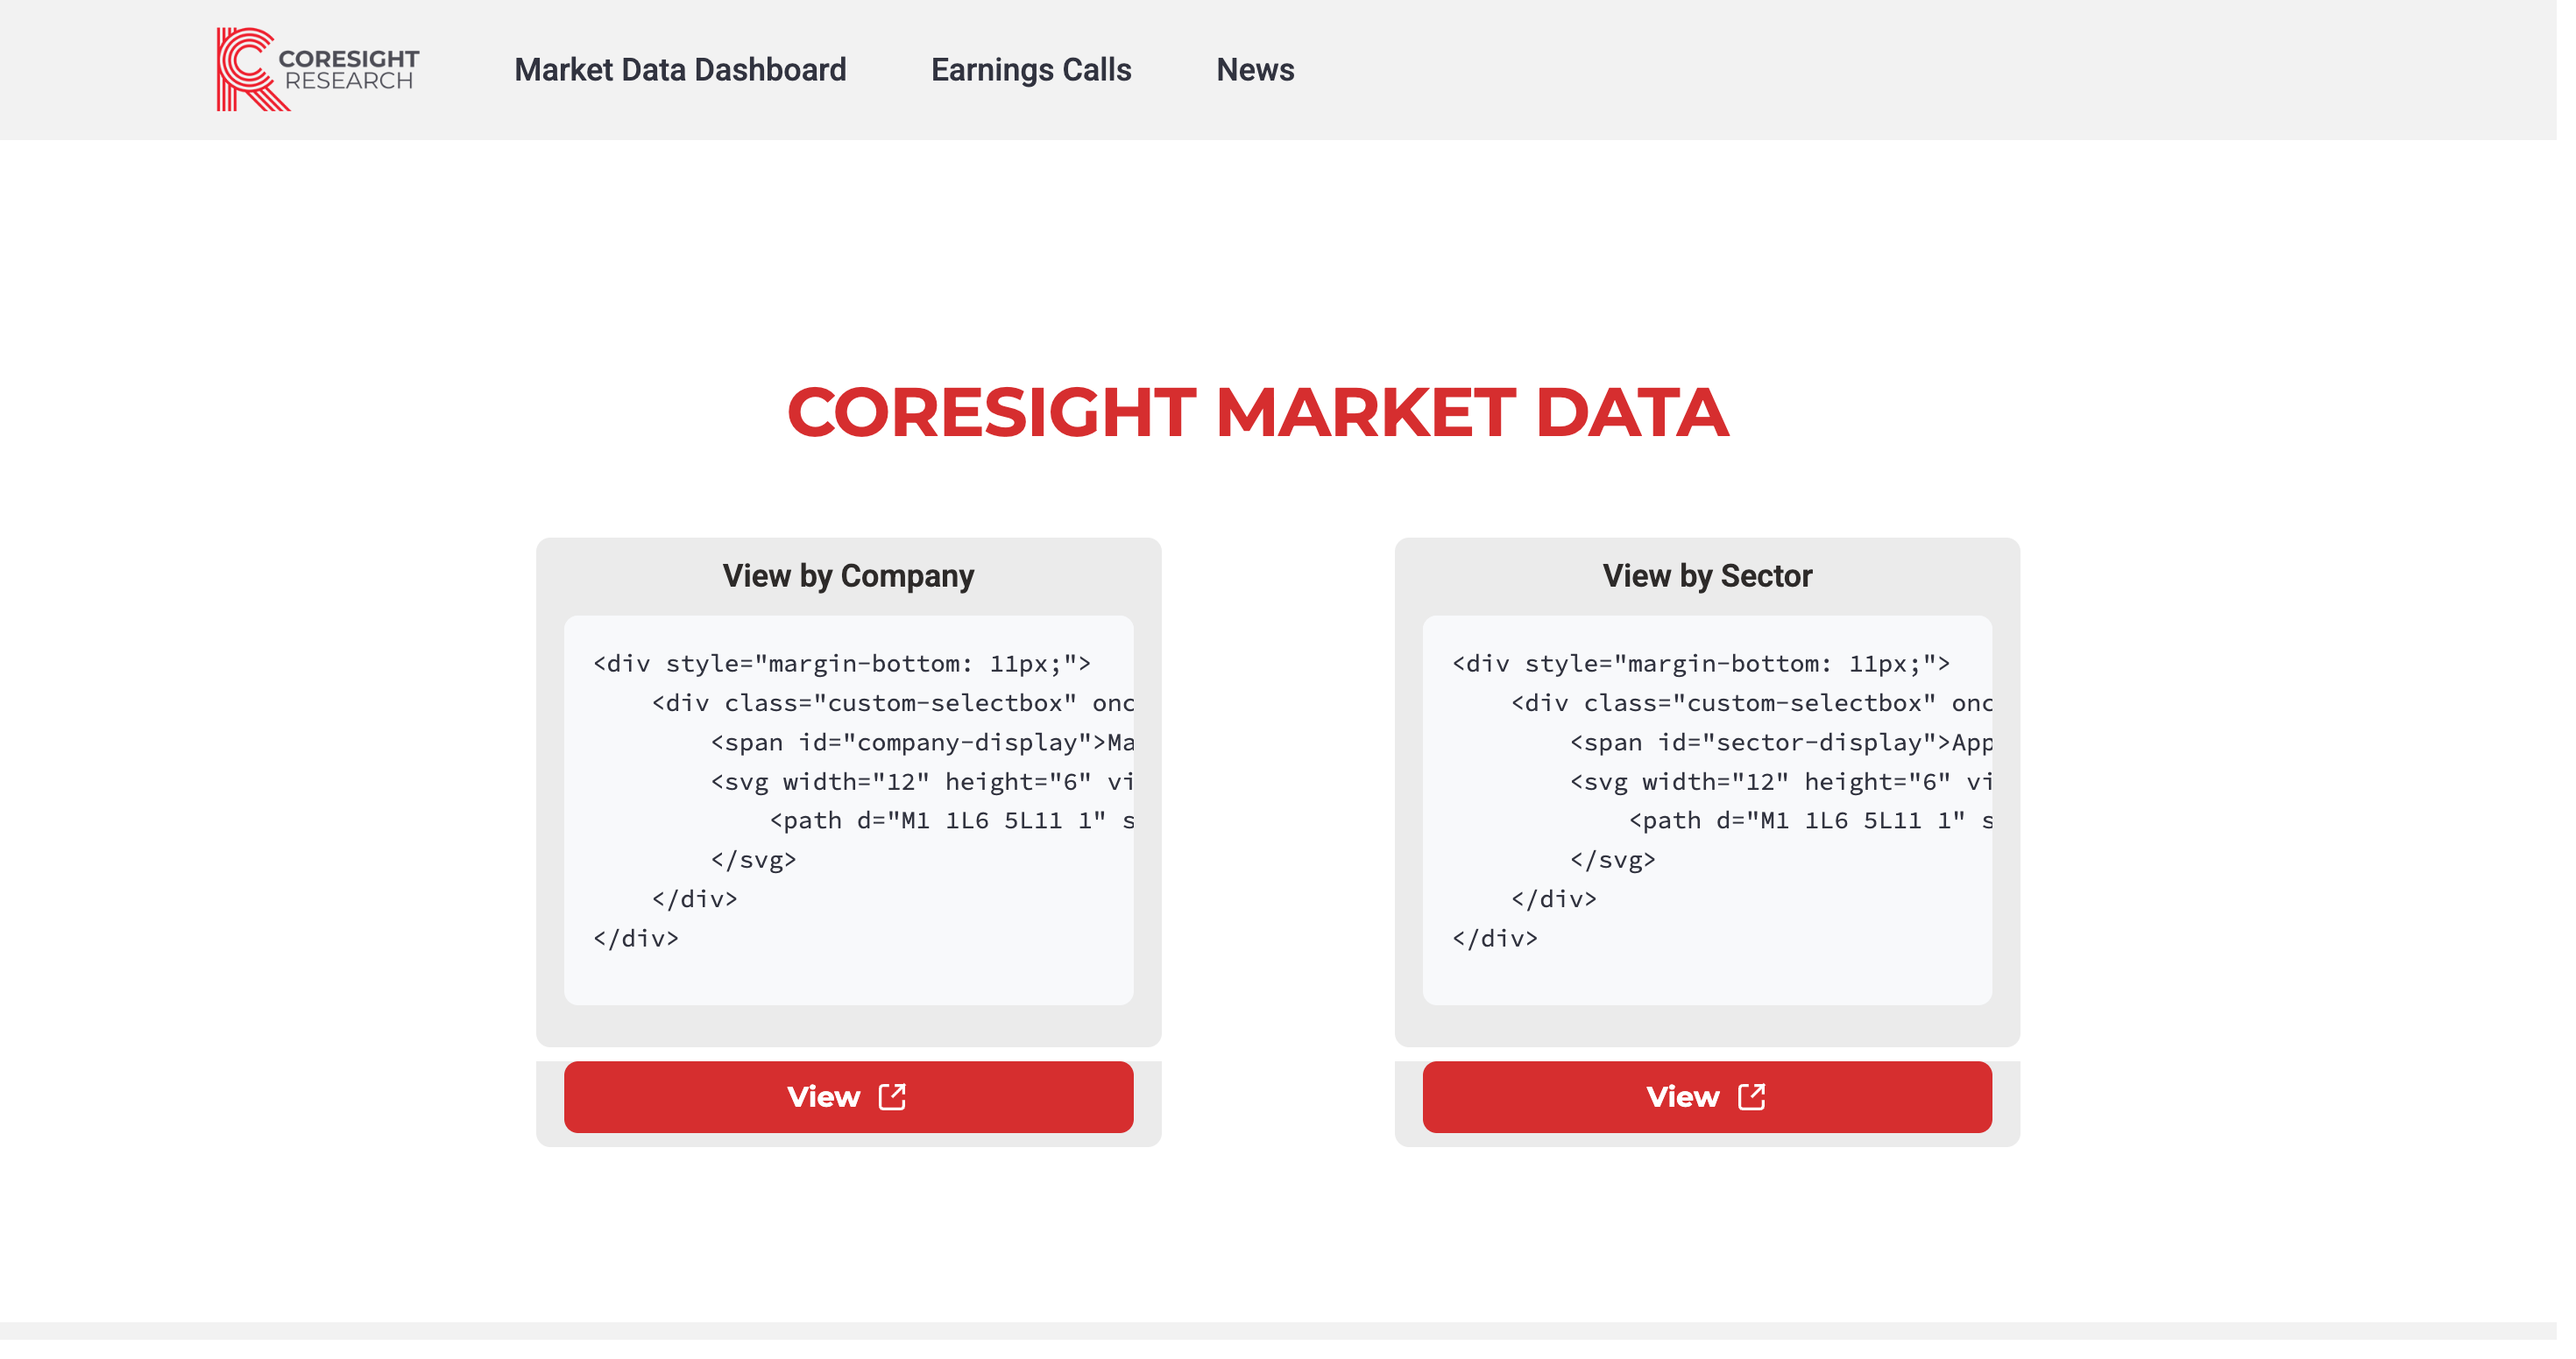
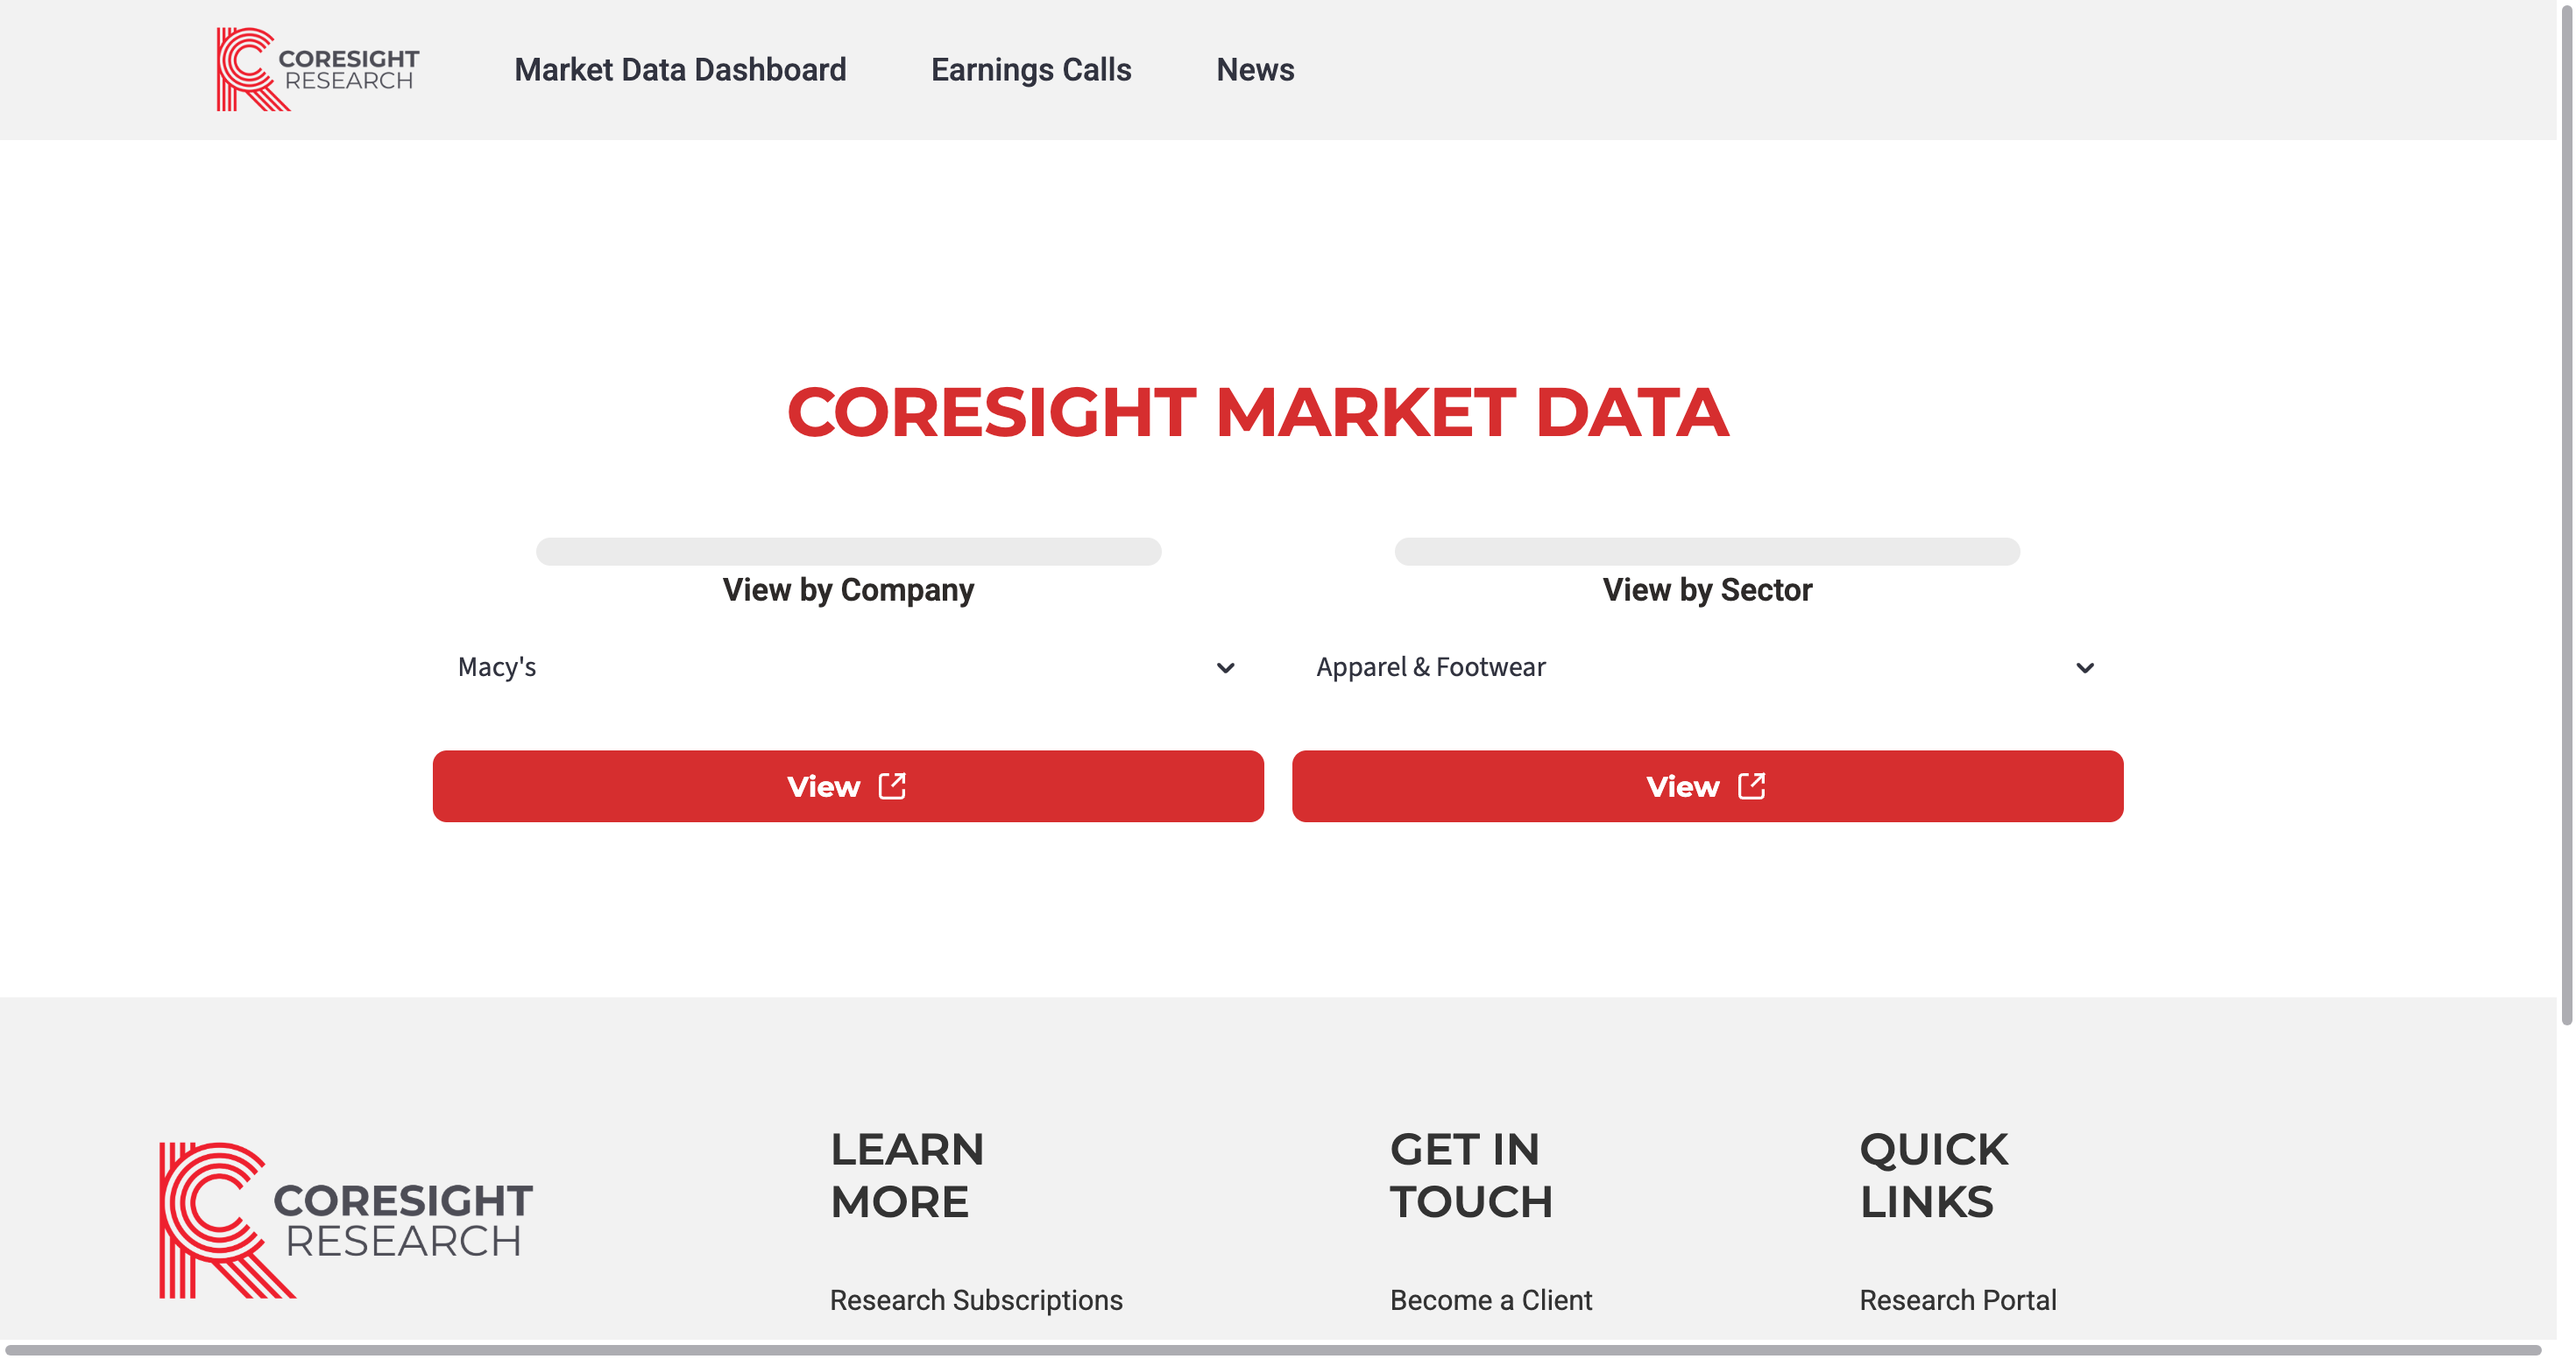
Home page added

diff --git a/app/pages/home.py b/app/pages/home.py
@@ -51,14 +51,14 @@ def main():
     [data-testid="stColumn"]:nth-of-type(3) > div {
         background-color: #EBEBEB !important;
         border-radius: 8px !important;
-        padding: 8px 16px !important;
+        padding: 8px 16px 28px 16px !important;
         width: 357px !important;
         margin: 0 auto !important;
     }
     
     /* Streamlit Selectbox Styling - White background */
     div[data-testid="stSelectbox"] {
-        margin-bottom: 11px !important;
+        margin-bottom: 8px !important;
     }
     
     div[data-testid="stSelectbox"] > label { display: none !important; }
@@ -77,6 +77,7 @@ def main():
         border-radius: 8px !important;
         min-height: 40px !important;
         height: 40px !important;
+        padding-bottom: 40px !important;
     }
     
     /* Hover and focus states */
